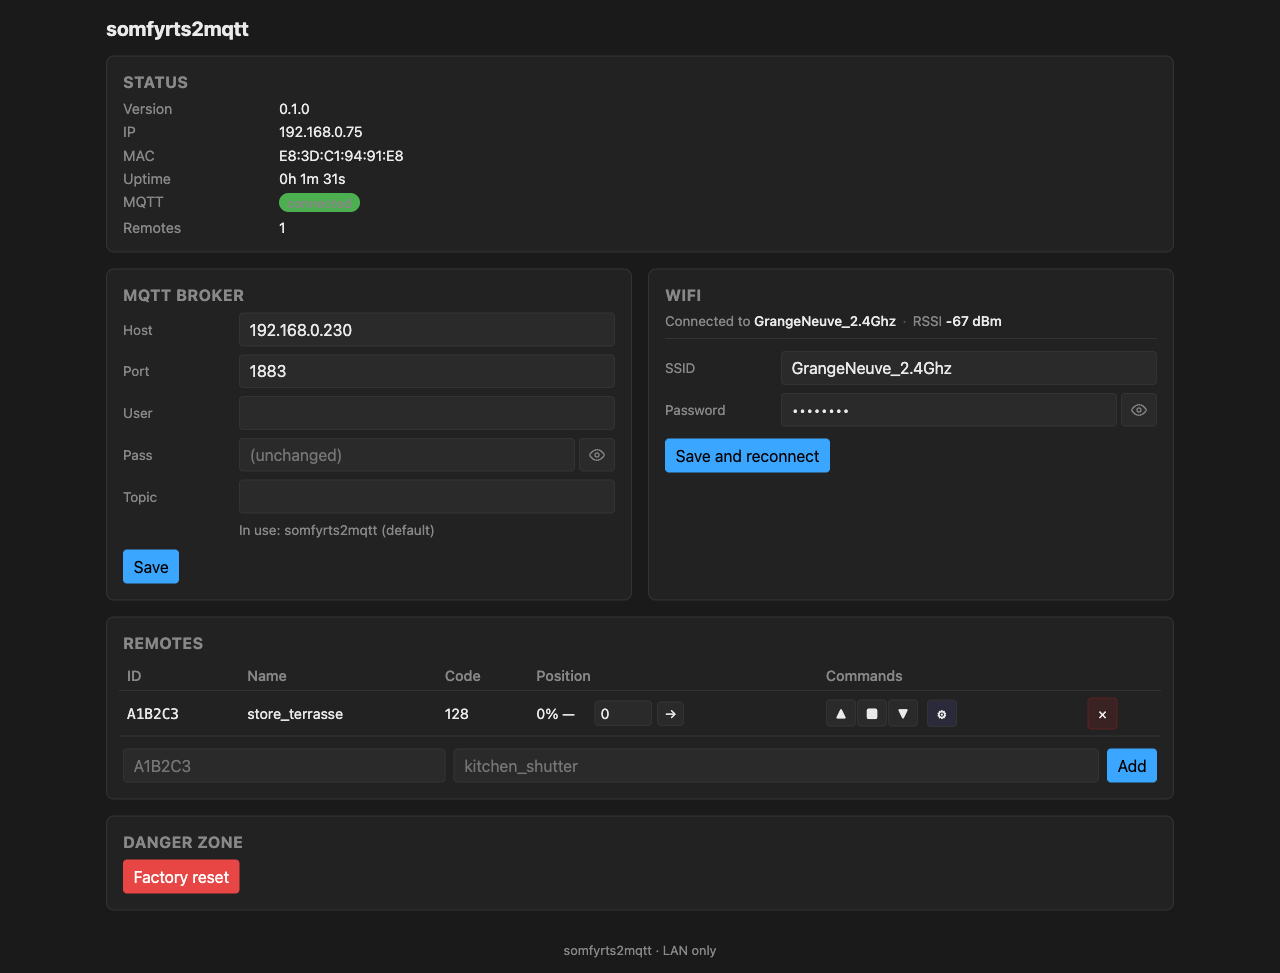
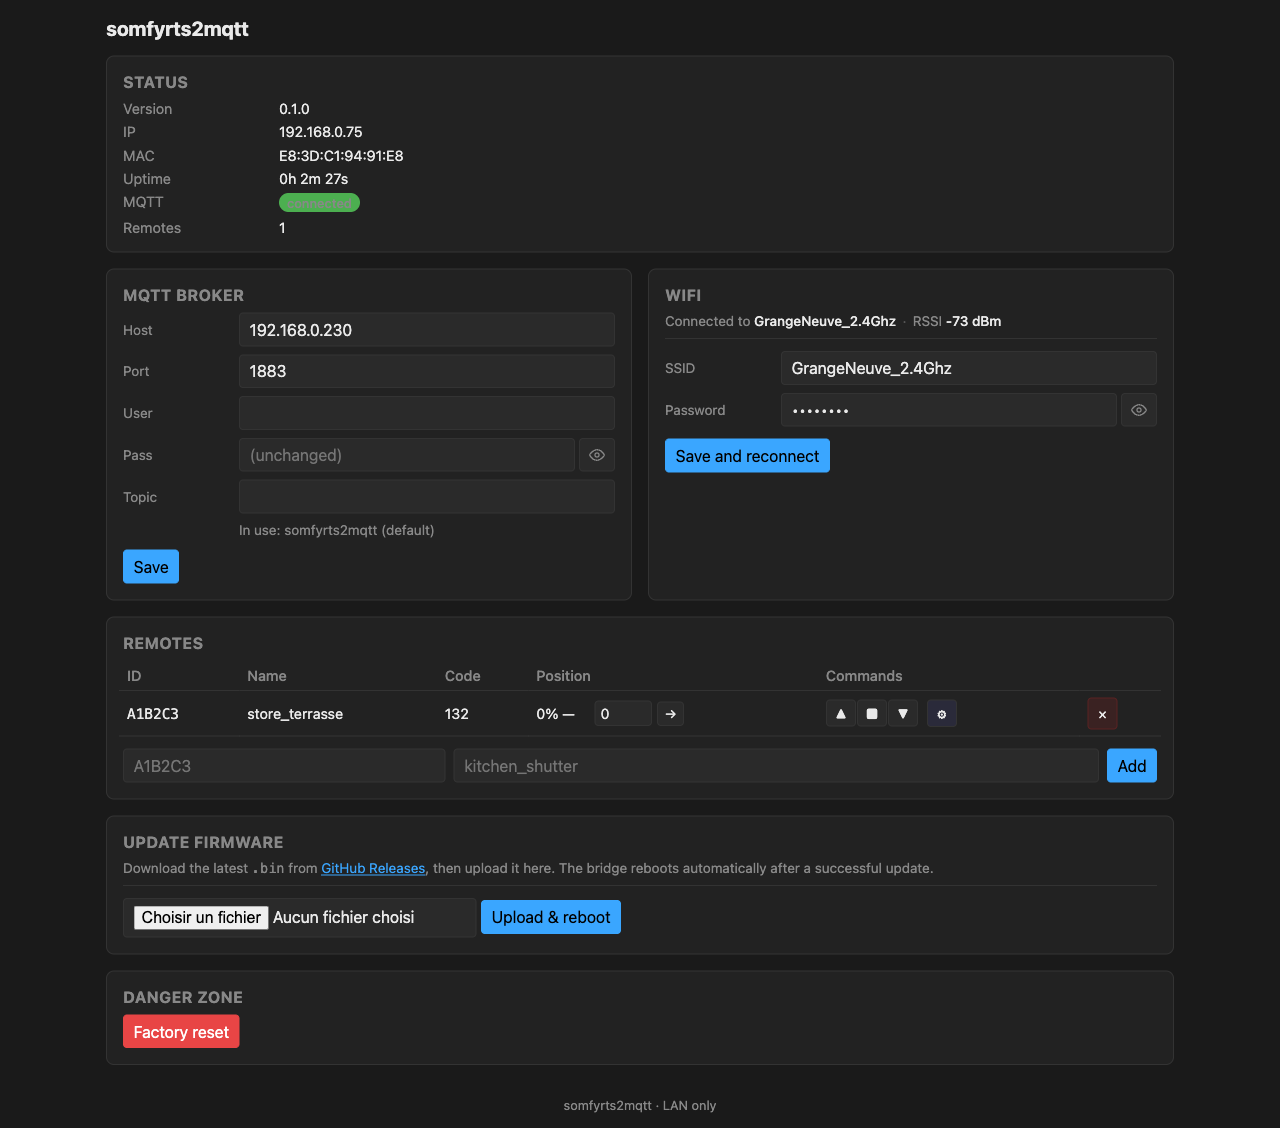
docs: OTA + releasing.md + refreshed screenshots (#23)
* docs(ota): new releasing.md + refreshed screenshots with Update section

End-of-iter 016 doc pass : everything we learned cutting v0.1.0 and
validating WebOTA end-to-end is now reflected in the user-facing
docs.

- docs/releasing.md (new) : maintainer-side procedure to cut a
  release. Explains how FW_VERSION is derived from `git describe`
  by scripts/release_version.py (no manual bump in platformio.ini),
  how the tag-push workflow builds + attaches the binaries, how
  PR labels drive the auto-generated categorised release body,
  how to recover from a botched release, and the pre-release
  convention.

- README.md : add OTA to the feature list ; link to
  docs/releasing.md from the docs table.

- docs/setup.md : the "Updating firmware over the air" section
  gains a short maintainer note cross-referencing releasing.md.

- docs/screenshots/web-ui-full.png and
  docs/screenshots/web-ui-setup-expanded.png : recaptured with
  playwright on the live bridge running v0.1.0. Status > Version
  now shows 0.1.0, the new Update firmware section is visible
  between Remotes and Danger zone, and the GitHub Releases link
  is rendered in the readable accent blue (post fix(ui): make
  links readable on the dark background).

No code change.

* docs(troubleshooting): correct the CC1101 dead-module note

The previous wording implied a "board / module affinity" effect (same
module fine on one ESP32, broken on another with identical wiring).
[…]

diff --git a/docs/releasing.md b/docs/releasing.md
@@ -1,0 +1,104 @@
+# Releasing (maintainer)
+
+How a new firmware version reaches end users. Most of it is automated ; the maintainer only tags + pushes.
+
+## Versioning model
+
+The displayed firmware version comes from `git describe --tags --dirty --always --match "v*"` at build time, evaluated by `scripts/release_version.py` :
+
+| Git state | `FW_VERSION` |
+|---|---|
+| On a tagged commit (`v0.2.0`) | `0.2.0` (the leading `v` is stripped) |
+| 3 commits past `v0.2.0` | `0.2.0-3-gabcd123` |
+| Same as above, with uncommitted changes | `0.2.0-3-gabcd123-dirty` |
+| No tag in history | `gabcd123` (short SHA fallback) |
+| Git unavailable | `0.0.0-unknown` |
+
+The Status card in the admin UI reads this string straight from the binary, so the displayed version always matches the running firmware.
+
+There is **no `FW_VERSION` constant to bump manually** in `platformio.ini` -- the script handles it. The single source of truth is the git tag.
+
+## Cut a release
+
+The repo follows semver-ish (`vMAJOR.MINOR.PATCH`).
+
+```bash
+# 1. Make sure main is clean and CI is green
+git checkout main
+git pull
+
+# 2. Tag the release (annotated, so it shows up in `git describe`)
+git tag -a v0.2.0 -m "v0.2.0 - <short tagline>"
+
+# 3. Push the tag (the workflow listens to push events on refs/tags/v*)
+git push origin v0.2.0
+```
+
+Within ~2 minutes :
+- `.github/workflows/release.yml` runs
+- Builds `firmware.bin` for both envs (`esp32-c3-mini`, `esp32-wroom`)
+- Renames them to `somfyrts2mqtt-0.2.0-<env>.bin`
+- Computes SHA256 sums
+- Creates a GitHub Release at `/releases/tag/v0.2.0`
+- Attaches the two `.bin` and the `sha256sums.txt`
+- Auto-generates a release body from PR titles + linked issues since the previous tag, categorised per `.github/release.yml` (Features / Fixes / Documentation / etc.)
+
+End users go to <https://github.com/mchacher/somfyrts2mqtt/releases/latest>, download the binary for their board, upload it via the bridge's web UI → Update firmware. No source-code checkout or PlatformIO needed on their side.
+
+## Categorised release notes (PR labels)
+
+The auto-generated body uses PR labels for grouping. Configure each PR (or label retroactively before tagging) with one of :
+
+| Label | Group |
+|---|---|
+| `feature`, `enhancement`, `feat` | 🚀 Features |
+| `fix`, `bug` | 🐛 Fixes |
+| `docs`, `documentation` | 📚 Documentation |
+| `ci`, `build` | 🔧 CI / build |
+| `refactor`, `chore` | ♻ Refactor / chore |
+| `test`, `tests` | 🧪 Tests |
+| Anything else | Other changes |
+
+PRs with the `skip-changelog` or `dependencies` label are excluded entirely (dependabot noise stays out of the release body).
+
+The mapping lives in `.github/release.yml`. Add new labels there if you adopt new conventions.
+
+## Pre-releases
+
+For a release candidate or a beta, use the standard `-rcN` / `-betaN` suffix in the tag :
+
+```bash
+git tag -a v0.2.0-rc1 -m "v0.2.0 release candidate 1"
+git push origin v0.2.0-rc1
+```
+
+GitHub automatically flags `*-rc*`, `*-beta*`, `*-alpha*` tags as **pre-releases** ; they do NOT appear at `/releases/latest`. End users only get them if they navigate to the full release list.
+
+The binaries are still built and attached -- pre-releases are a perfectly fine OTA target for early testers.
+
+## Recover from a botched release
+
+The release workflow does **not** push back to `main` -- nothing is modified after the build except the GitHub Release page. To withdraw a release :
+
+```bash
+# Delete the GitHub release (web UI : releases > pick > Delete release)
+gh release delete v0.2.0 --repo mchacher/somfyrts2mqtt --yes
+
+# Delete the tag locally and on remote
+git tag -d v0.2.0
+git push origin :refs/tags/v0.2.0
+
+# Fix whatever was wrong, then tag again with a bumped patch number (v0.2.1)
+```
+
+Re-using the same tag number after deletion is technically possible but confusing for users who already downloaded the .bin -- bump to the next patch instead.
+
+## Hotfix workflow
+
+For a critical fix that needs to ship without the next batch of features :
+
+1. Cut a `fix/...` branch off main, fix, PR, label `fix`, merge.
+2. Tag the merge commit as `v0.2.1`, push.
+3. Existing OTA mechanism rolls the fix out to anyone who clicks Upload in the admin UI.
+
+Auto-update from a release feed (poll + notify) is not implemented yet. End users still pull updates manually -- low friction since the admin UI link goes straight to `/releases/latest`.

diff --git a/README.md b/README.md
@@ -15,6 +15,7 @@ Designed as a companion device for [Sowel](https://github.com/mchacher/sowel) (p
 - **4-power-cycle AP recovery** — lost the LAN, wrong password, moved router ? Cycle the power 4 times within 5 s each → forces AP mode for re-commissioning.
 - **mDNS** — reach the bridge as `somfyrts2mqtt.local`, no DHCP lease hunting.
 - **Web admin UI** — embedded single-page, no external host. Configure broker, WiFi, durations, pair / erase remotes.
+- **OTA updates** — pre-built `firmware.bin` published with each tagged release on GitHub. The user uploads it from the admin UI's *Update firmware* section ; the bridge writes the second OTA slot, validates the MD5, and reboots. A botched binary is rolled back automatically by the dual-app partition scheme.
 - **Multi-board** — same code on ESP32-C3 Super Mini and ESP32 WROOM (NodeMCU-32S).
 
 ## Quickstart
@@ -75,6 +76,7 @@ The Tasmota Shutter command set is documented in [docs/mqtt-api.md](docs/mqtt-ap
 | [docs/web-ui.md](docs/web-ui.md) | Section-by-section walkthrough with screenshots |
 | [docs/mqtt-api.md](docs/mqtt-api.md) | Tasmota Shutter topic reference, payload examples, LWT, mqtt-cli.py |
 | [docs/troubleshooting.md](docs/troubleshooting.md) | Common pitfalls (AUTH_EXPIRE on C3, dead CC1101, mDNS resolution, etc.) |
+| [docs/releasing.md](docs/releasing.md) | Maintainer-side : how to cut a release, versioning, PR labels for the auto-generated notes |
 | [CLAUDE.md](CLAUDE.md) | Project conventions, code style, contribution notes |
 | [specs/](specs/) | Per-iteration design notes (specs / architecture / plan) |
 

diff --git a/docs/troubleshooting.md b/docs/troubleshooting.md
@@ -36,7 +36,7 @@ References : [arduino-esp32 issue #6767](https://github.com/espressif/arduino-es
 5. **Add 100 nF decoupling** across CC1101 VCC / GND, close to the chip.
 6. **Add a 10 kΩ pull-up on MISO** to 3.3 V — fixes some clones whose MISO is too slow to settle.
 
-**Note :** module / board affinity has been observed — the same CC1101 may work on one ESP32 and not another, even with identical wiring. Pair-match working combos rather than chase ghosts.
+**Note :** the cheap CC1101 clones have a real defect rate (~5-15 % out of the box in our sample). A module that does not respond on one ESP32 typically does not respond on any other ESP32 either -- it is the module that is dead, not a wiring / coupling issue. Swap it for another one rather than chase ghosts.
 
 ## mDNS not resolving
 

diff --git a/docs/setup.md b/docs/setup.md
@@ -166,6 +166,10 @@ Then `pio run -e esp32-c3-mini-ota -t upload` is enough.
 
 End users never need ArduinoOTA -- WebOTA is the supported path.
 
+### Cutting a new release (maintainer)
+
+The release publishing flow (tag → CI builds binaries → attaches them to a GitHub Release with auto-generated, label-categorised notes) is documented in [docs/releasing.md](releasing.md). The firmware version displayed in the Status card is derived from `git describe` at build time, so the only manual step at release time is `git tag -a vX.Y.Z` + `git push`.
+
 ## Factory reset
 
 Two ways :
